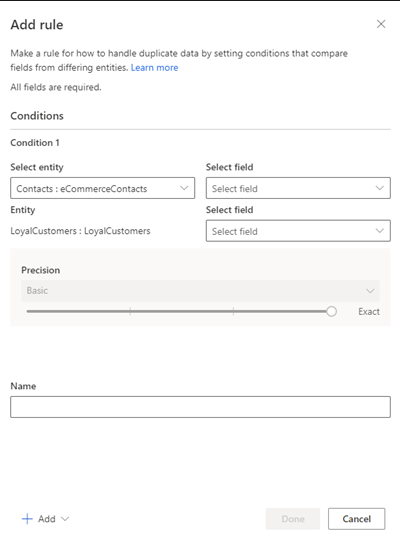
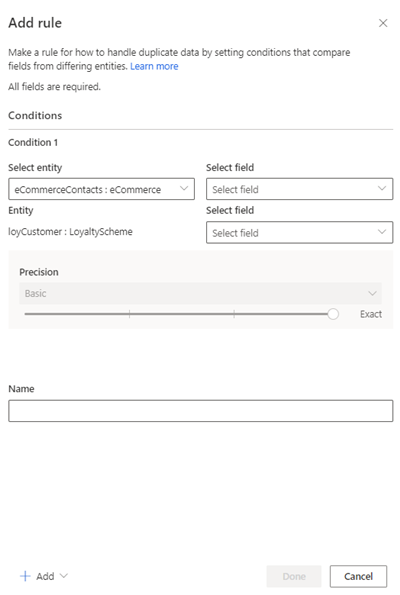
Walk through changes

diff --git a/ci-docs/data-unification-update-contacts.md b/ci-docs/data-unification-update-contacts.md
@@ -19,7 +19,7 @@ searchScope:
 
 # Update the contact unification settings
 
-To review or change any unification settings once a unified contact profile has been created, perform the following steps.
+To review or change contact unification settings once a unified contact profile has been created, perform the following steps. To review or change customer or account unification settings once a unified profile has been created, see [Update the customer or account unification settings](data-unification-update.md).
 
 1. Go to **Data** > **Unify**. Under **Unify contacts**, the contact unification tiles display.
 
@@ -33,18 +33,20 @@ To review or change any unification settings once a unified contact profile has 
    - [Duplicate records](data-unification-update.md#manage-deduplication-rules) to manage deduplication rules or merge preferences.
    - [Matching conditions](data-unification-update.md#manage-match-rules) to update matching rules across two or more entities.
    - [Unified customer fields](data-unification-update.md#manage-unified-fields) to combine or exclude fields.
-   - Semantic mapping to add semantic types to unified fields.
-   - Relationships to add a relationship for a new entity.
+   - [Semantic mapping](data-unification-contacts.md#define-the-semantic-fields-for-unified-contacts) to add semantic types to unified fields.
+   - [Relationships](data-unification-contacts.md#set-the-relationship-between-contacts-and-accounts) to add a relationship for a new entity.
 
 1. After making your changes, choose your next option:
 
    :::image type="content" source="media/b2b_run_match_merge.png" alt-text="Screenshot of the Data Unify page with the Unify contacts option open.":::
 
    - To update the unified contact profile (with or without dependencies), see [Run updates to the contact profile](#run-updates-to-the-unified-contact-profile).
-   - To evaluate the quality of your matching conditions, see [Run matching conditions](#run-matching-conditions).
+   - To evaluate the quality of your matching conditions without updating the unified contact profile, see [Run matching conditions](#run-matching-conditions).
 
 
 ## Run matching conditions
+
+Run matching conditions to test unification rules without creating a unified profile.
 
 1. From the **Data** > **Unify** page, select **Unify contacts** > **Run matching conditions only**.
 
@@ -62,8 +64,10 @@ To review or change any unification settings once a unified contact profile has 
 
 ## Run updates to the unified contact profile
 
-To update the unified contact profile entity without impacting dependencies (such as enrichments, segments, or measures), select **Unify contacts** > **Unify profiles**. Dependent processes are not run, but will be refreshed as [defined in the refresh schedule](system.md#schedule-tab).
+To run matching conditions and update the unified contact profile entity without impacting dependencies (such as customer cards, enrichments, segments, or measures), select **Unify contacts** > **Unify profiles**. Dependent processes are not run, but will be refreshed as [defined in the refresh schedule](system.md#schedule-tab).
 
-To update the unified profile and all dependencies, select **Unify contacts** > **Unify profiles and dependencies**. All processes are rerun automatically. After all downstream processes have completed, the contact profiles reflect any changes you made.
+To run matching conditions, update the unified profile, and update all dependencies, select **Unify contacts** > **Unify profiles and dependencies**. All processes are rerun automatically. If account unification settings were saved but not run, account unification occurs before contact unification.
+
+All tiles (except Source fields) show **Queued** or **Refreshing**.
 
 [!INCLUDE [m3-task-details-include](includes/m3-task-details.md)]

diff --git a/ci-docs/data-unification-update.md b/ci-docs/data-unification-update.md
@@ -1,7 +1,7 @@
 ---
-title: "Update the unification settings"
-description: "Update duplicate rules, match rules, or unified fields in the unification settings."
-ms.date: 05/04/2022
+title: "Update customer or account unification settings"
+description: "Update duplicate rules, match rules, or unified fields in the customer or account unification settings."
+ms.date: 05/23/2022
 
 ms.subservice: audience-insights
 ms.topic: tutorial
@@ -16,7 +16,7 @@ searchScope:
   - customerInsights
 ---
 
-# Update the unification settings
+# Update customer or account unification settings
 
 To review or change any customer or account unification settings once a unified profile has been created, perform the following steps. To review or change contact unification settings once a unified contact profile has been created, see [Update the contact unification settings](data-unification-update-contacts.md).
 
@@ -131,6 +131,8 @@ You can reconfigure and fine-tune most of the match parameters. You can't add or
 
 ## Run matching conditions
 
+Run matching conditions to test unification rules without creating a unified profile.
+
 1. From the **Data** > **Unify** page, select **Run matching conditions only**.
 
    The **Duplicate records** and **Matching conditions** tiles show **Queued** or **Refreshing**.
@@ -147,12 +149,10 @@ You can reconfigure and fine-tune most of the match parameters. You can't add or
 
 ## Run updates to the unified customer profile
 
-1. From the **Data** > **Unify** page, select one of the following:
+To run matching conditions and update the unified customer profile entity without impacting dependencies (such as customer cards, enrichments, segments, or measures), select **Unify customer profiles** (or for B-to-B **Unify accounts** > **Unify profiles**). Dependent processes aren't run, but will be refreshed as [defined in the refresh schedule](system.md#schedule-tab).
 
-   - **Unify customer profiles**: Updates the unified customer profile entity without impacting dependencies (such as enrichments, segments, or measures). Dependent processes aren't run, but will be refreshed as [defined in the refresh schedule](system.md#schedule-tab).
+To run matching conditions, update the unified profile, and run all dependencies, select **Unify customer profiles and dependencies** (or for B-t0-B **Unify accounts** > **Unify profiles and dependencies**). All processes are rerun automatically. For B-to-B, after the account unified profile is updated, contact unification is run if contact unification settings were saved but not run.
 
-   - **Unify customer profiles and dependencies**: Updates the unified profile and all dependencies. All processes are rerun automatically. After all downstream processes have completed, the customer profile reflects the updated data.
+The **Duplicate records**, **Matching conditions**, and **Unified customer fields** tiles show **Queued** or **Refreshing**.
 
-   The **Duplicate records**, **Matching conditions**, and **Unified customer fields** tiles show **Queued** or **Refreshing**.
-
-   [!INCLUDE [m3-task-details-include](includes/m3-task-details.md)]
+[!INCLUDE [m3-task-details-include](includes/m3-task-details.md)]

diff --git a/ci-docs/activities.md b/ci-docs/activities.md
@@ -1,9 +1,9 @@
 ---
-title: "Customer activities"
-description: "Define customer activities and view them in a timeline on customer profiles." 
-ms.date: 11/01/2021
+title: "Customer or contact activities"
+description: "Define customer or business contact activities and view them in a timeline on customer profiles." 
+ms.date: 05/23/2022
 ms.subservice: audience-insights
-ms.reviewer: mhart
+ms.reviewer: v-wendysmith
 ms.topic: conceptual
 author: CadeSanthaMSFT
 ms.author: cadesantha
@@ -19,11 +19,11 @@ searchScope:
   - customerInsight
 ---
 
-# Customer activities
+# Customer or business contact activities
 
-Combine customer activities from [various data sources](data-sources.md) in Dynamics 365 Customer Insights. Create a timeline that lists the activities chronologically. Include the timeline in Dynamics 365 apps with the [Customer Card add-in](customer-card-add-in.md) solution.
+Combine customer or business contact activities from [various data sources](data-sources.md) in Dynamics 365 Customer Insights. Create a timeline that lists the activities chronologically. Include the timeline in Dynamics 365 apps with the [Customer Card add-in](customer-card-add-in.md) solution.
 
-## Define an activity
+## Define a customer activity
 
 Your data sources can include entities with transactional and activity data from multiple data sources. Identify these entities and select the activities you want to view on the customer's timeline. Choose the entity that includes your target activity or activities.
 
@@ -87,7 +87,7 @@ An entity must have at least one attribute of type **Date** to be included in a 
 
 [!INCLUDE [progress-details-include](includes/progress-details-pane.md)]
 
-## Manage existing activities
+## Manage existing customer activities
 
 On **Data** > **Activities**, you can view all your saved activities, and manage them. Each activity is represented by a row that also includes details about the source, the entity, and the activity type.
 

diff --git a/ci-docs/review-unification.md b/ci-docs/review-unification.md
@@ -45,6 +45,18 @@ We recommend you review the results, particularly the quality of your [match rul
 
 When needed, [make changes to the unification settings](data-unification-update.md) and rerun the unified profile.
 
+### Output entities from data unification
+
+Deduplication and conflation entities are created and display in the **System** section in the **Entities** page. A deduplicated entity for each of the source entities is created with the name **Deduplication_DataSource_Entity**. The **ConflationMatchPairs:CustomerInsights** entity contains information about cross-entity matches.
+
+A deduplication output entity contains the following information:
+- IDs / Keys
+  - Primary key and Alternate ID fields. Alternate ID field consists of all the alternate IDs identified for a record.
+  - Deduplication_GroupId field shows the group or cluster identified within an entity that groups all the similar records based on the specified deduplication fields. It's used for system processing purposes. If there are no manual deduplication rules specified and system defined deduplication rules apply, you may not find this field in the deduplication output entity.
+  - Deduplication_WinnerId: This field contains the winner ID from the identified groups or clusters. If the Deduplication_WinnerId is same as the Primary key value for a record, it means that the record is the winner record.
+- Fields used to define the deduplication rules.
+- Rule and Score fields to denote which of the deduplication rules got applied and the score returned by the matching algorithm.
+
 ## Next Step
 
 - For B-to-B, perform [contact unification](data-unification-contacts.md).

diff --git a/ci-docs/remove-duplicates.md b/ci-docs/remove-duplicates.md
@@ -86,17 +86,4 @@ If you enriched entities on the data source level to help improve your unificati
 > [!div class="nextstepaction"]
 > [Next step for multiple entities: Matching conditions](match-entities.md)
 
-## Deduplication output as an entity
-
-The deduplication process creates a new deduplicated entity for each of the source entities. These entities can be found along with the **ConflationMatchPairs:CustomerInsights** in the **System** section in the **Entities** page, with the name **Deduplication_DataSource_Entity**.
-
-A deduplication output entity contains the following information:
-
-- IDs / Keys
-  - Primary key and Alternate ID fields. Alternate ID field consists of all the alternate IDs identified for a record.
-  - Deduplication_GroupId field shows the group or cluster identified within an entity that groups all the similar records based on the specified deduplication fields. It's used for system processing purposes. If there are no manual deduplication rules specified and system defined deduplication rules apply, you may not find this field in the deduplication output entity.
-  - Deduplication_WinnerId: This field contains the winner ID from the identified groups or clusters. If the Deduplication_WinnerId is same as the Primary key value for a record, it means that the record is the winner record.
-- Fields used to define the deduplication rules.
-- Rule and Score fields to denote which of the deduplication rules got applied and the score returned by the matching algorithm.
-
 [!INCLUDE[footer-include](includes/footer-banner.md)]

diff --git a/ci-docs/data-unification-contacts.md b/ci-docs/data-unification-contacts.md
@@ -22,6 +22,8 @@ searchScope:
 
 After [unifying business accounts](map-entities.md), unify the contacts. The contact unification process maps contact data from your data sources, removes duplicates, matches the data across entities, sets up semantic mapping, creates relationships between contacts and accounts, and then creates a unified contact profile.
 
+The following steps and images reflect the first time you go through the contact unification process. To edit existing contact unification settings, see [Update the unification settings](../data-unification-update-contacts.md).
+
 ## Select source fields for contact unification
 
 1. Under **Unify contacts**, select **Get started**.
@@ -85,7 +87,7 @@ This last step in the unification process shows a summary of the steps in the pr
 
    [!INCLUDE [m3-task-details-include](includes/m3-task-details.md)]
 
-When the unification process completes, the unified contact profile entity, called *ContactProfile*, displays on the **Entities** page in the **Profiles** section. The first successful unification run creates the unified *ContactProfile* entity. All subsequent runs expand that entity.
+When the unification process completes, the unified contact profile entity, called *ContactProfile*, displays on the **Entities** page in the **Semantic entities** section. The first successful unification run creates the unified *ContactProfile* entity. All subsequent runs expand that entity.
 
 ### Review the results of contact unification
 

diff --git a/ci-docs/semantic-mappings.md b/ci-docs/semantic-mappings.md
@@ -17,7 +17,7 @@ searchScope:
 # Semantic mappings (Preview)
 
 > [!NOTE]
-> The **Semantic mappings** page is available only for business environments (B-to-B) and if contact profiles have been created through semantic mappings. You can continue to manage the individual contact profiles or create new ones using the **Semantic mappings** page. Or, [unify your contact data](data-unification-contacts.md) to remove duplicates, identify matches across entities, and create one unified contact profile. You can then use the unified contact profile to create contact-level activities.
+> The **Semantic mappings** page is available only for business environments (B-to-B) where contact profiles have already been created using this page. You can continue to manage the individual contact profiles or create new ones using the **Semantic mappings** page. Or, [unify your contact data](data-unification-contacts.md) to remove duplicates, identify matches across entities, and create one unified contact profile. You can then use the unified contact profile to create contact-level activities.
 
 Semantic mappings let you map your non-activity data to pre-defined schemas. These schemas help Customer Insights to better understand your data attributes. Semantic mapping and the provided data enable new insights and features in Customer Insights. To map your activity data to the schemas, review the [activities](activities.md) documentation.
 

diff --git a/ci-docs/map-entities.md b/ci-docs/map-entities.md
@@ -44,7 +44,7 @@ The first step in unification is selecting the entities and fields within your d
 
    :::image type="content" source="media/m3_select_entities.png" alt-text="Screenshot of selected entities and attributes.":::
 
-   In this example, we're adding the **Contacts** and **CustomerLoyalty** entities. By choosing these entities, you can derive insights on which of the online business customers are loyalty program members.
+   In this example, we're adding the **eCommerceContacts** and **loyCustomer** entities. By choosing these entities, you can derive insights on which of the online business customers are loyalty program members.
 
 1. Select **Apply** to confirm your selections. The selected entities and attributes display.
 

diff --git a/ci-docs/includes/m3-task-details.md b/ci-docs/includes/m3-task-details.md
@@ -1,3 +1,3 @@
 To check the status of the process, select **Refreshing**. The **Task details** pane displays. Under each task, you can select **See details** for more progress information.
 
-The results of a successful run display on the **Unify** page showing the number of unified customer profiles.
+The results of a successful run display on the **Unify** page.
